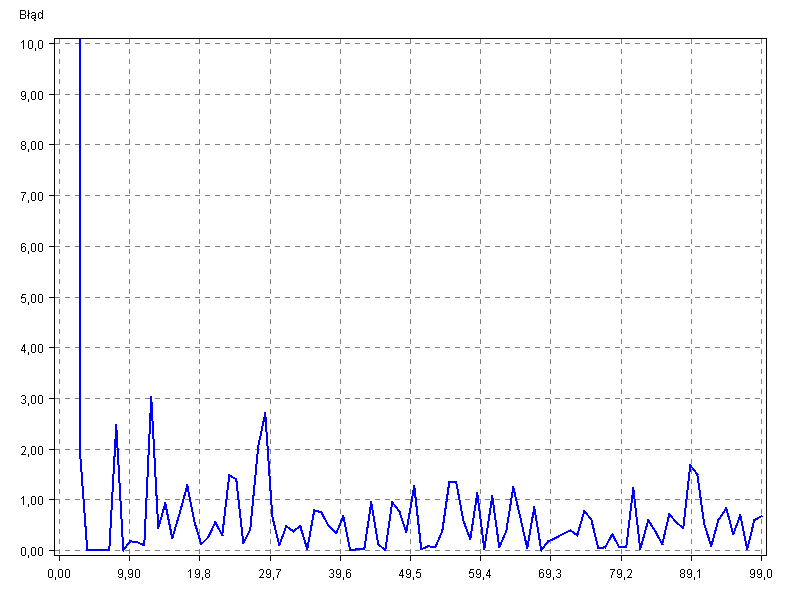
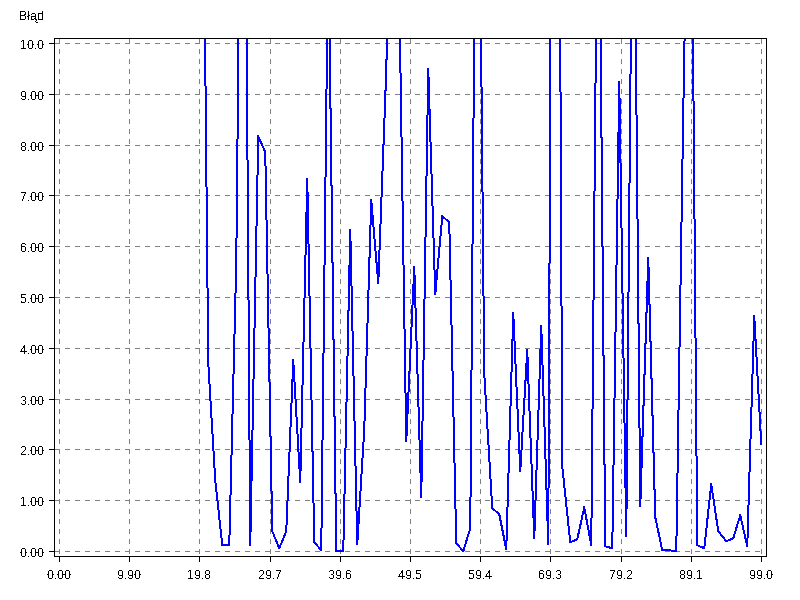
Momentum added

diff --git a/src/algorithms/BackPropagation.java b/src/algorithms/BackPropagation.java
@@ -8,10 +8,10 @@ import java.util.ArrayList;
 import java.util.List;
 
 public class BackPropagation {
-    public static List<Double> train(Network network, List<Double> inputs, List<Double> desiredOutputs, double learningRate) {
+    public static List<Double> train(Network network, List<Double> inputs, List<Double> desiredOutputs, double learningRate, double momentum) {
         network.work(inputs);
         List<Double> ret = calculateErrors(network, desiredOutputs);
-        updateWeights(network, inputs, learningRate);
+        updateWeights(network, inputs, learningRate, momentum);
         return ret;
     }
 
@@ -38,14 +38,20 @@ public class BackPropagation {
         return errors;
     }
 
-    private static void updateWeights(Network network, List<Double> inputs, double learning_rate) {
+    private static void updateWeights(Network network, List<Double> inputs, double learning_rate, double momentum) {
         for(Layer layer : network) {
             List<Double> newInputs = new ArrayList<>();
             for(Neuron neuron : layer) {
                 for(int i = 0; i < neuron.size(); i++) {
+                    double momentumWeight = momentum * (neuron.get(i) - neuron.getPreviousWeights().get(i));
+                    neuron.getPreviousWeights().set(i, neuron.get(i));
                     neuron.updateWeight(i, 2 * learning_rate * neuron.getError() * inputs.get(i));
+                    neuron.updateWeight(i, momentumWeight);
                 }
+                double momentumBias = momentum * (neuron.getBias() - neuron.getPreviousBias());
+                neuron.setPreviousBias(neuron.getBias());
                 neuron.updateBias(2 * learning_rate * neuron.getError());
+                neuron.updateBias(momentumBias);
                 newInputs.add(neuron.getfValue());
             }
             inputs = newInputs;

diff --git a/src/network_components/Neuron.java b/src/network_components/Neuron.java
@@ -2,6 +2,7 @@ package network_components;
 
 import functions.Function;
 
+import java.util.ArrayList;
 import java.util.LinkedList;
 import java.util.List;
 import java.util.Random;
@@ -11,13 +12,17 @@ public class Neuron extends LinkedList<Double> {
     private double fValue;
     private double dValue;
     private double error;
+    private List<Double> previousWeights;
+    private double previousBias;
     private Function function;
 
     public Neuron(int weightCount, Function function) {
         this.function = function;
         error = 0;
         Random random = new Random();
+        previousWeights = new ArrayList<>();
         for (int i = 0; i < weightCount; i++) {
+            previousWeights.add(0.0);
             add(random.nextDouble());
         }
         bias = random.nextDouble();
@@ -60,5 +65,17 @@ public class Neuron extends LinkedList<Double> {
 
     public void updateWeight(int index, double valueToAdd) {
         set(index, get(index) + valueToAdd);
+    }
+
+    public List<Double> getPreviousWeights() {
+        return previousWeights;
+    }
+
+    public void setPreviousBias(double previousBias) {
+        this.previousBias = previousBias;
+    }
+
+    public double getPreviousBias() {
+        return previousBias;
     }
 }

diff --git a/src/Main.java b/src/Main.java
@@ -10,18 +10,22 @@ import java.util.List;
 
 public class Main {
     public static void main(String[] args) {
-        Network network = new Network(1,1,2,20);
+        Network network = new Network(1,1,2,100);
         Examples examples = new Examples("data.txt");
 
         List<Double> errorX = new ArrayList<>();
         List<Double> errorY = new ArrayList<>();
 
+        double learningRate = 0.000001;
+        double momentum = 0;
+
         for(int i = 0; i < 100; i++) {
             errorX.add(Double.valueOf(Integer.toString(i)));
             Example e = examples.getRandom();
-            Double d = BackPropagation.train(network, e.getInputs(), e.getOutputs(), 0.00001).get(0);
+            Double d = BackPropagation.train(network, e.getInputs(), e.getOutputs(), learningRate, momentum).get(0);
             errorY.add(d);
             System.out.println(d);
+            System.out.println("lr" + learningRate);
         }
 
         List<Double> inputs = new ArrayList<>();
